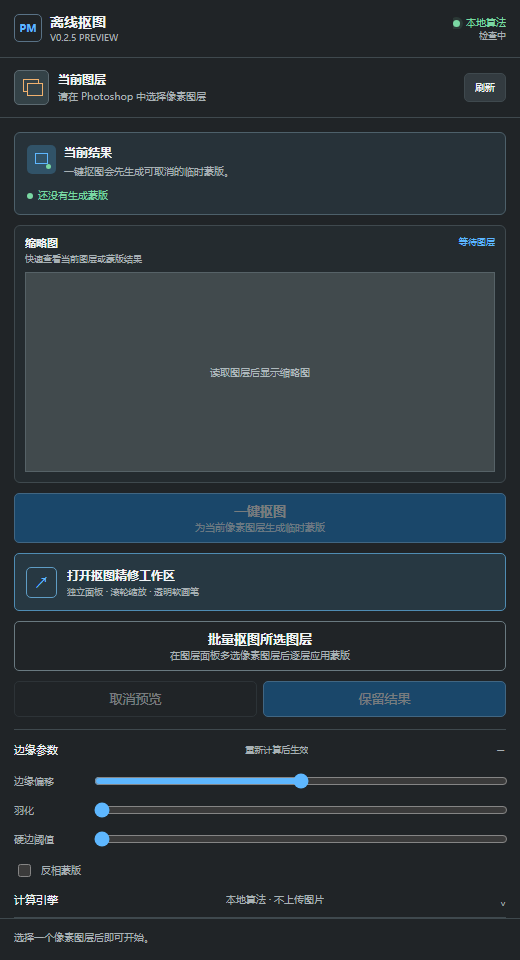
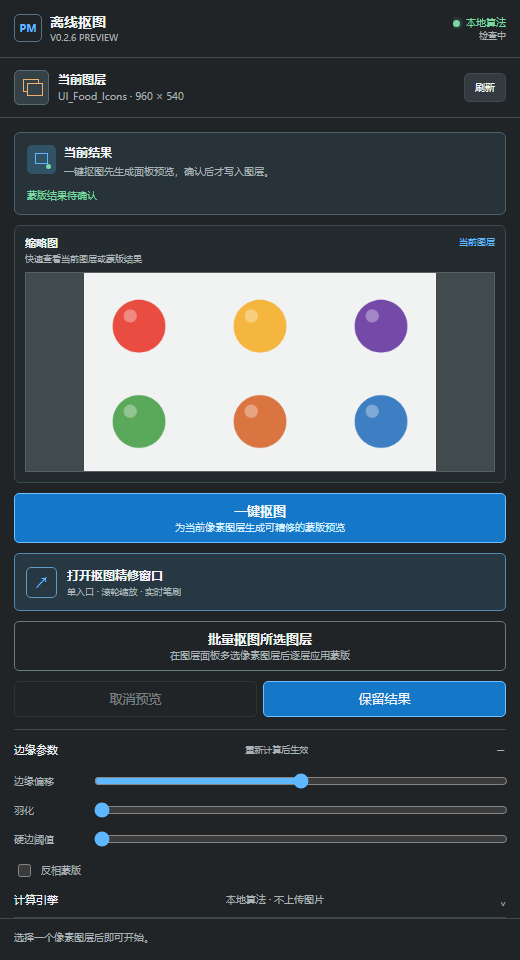
release: publish v0.2.6 preview guidance

diff --git a/docs/USAGE.md b/docs/USAGE.md
@@ -1,19 +1,19 @@
 # 使用说明
 
-![0.2 面板预览](../assets/ui-preview-0.2.png)
+![0.2 面板预览](ui-preview-0.2.png)
 
-![0.2 独立精修面板](../assets/refine-preview-0.2.png)
+![0.2 精修窗口](refine-preview-0.2.png)
 
 ## 基本流程
 
 1. 在 Photoshop 中选择一个像素图层。打开插件或切换图层后会自动读取；“刷新”用于同一图层像素发生变化但选择没有变化的情况。
 2. 主面板缩略图会先显示当前图层；点击“一键抠图”生成初步蒙版后，缩略图切换为蒙版结果。默认使用本地算法，不上传图片。
-3. 点击“打开抠图精修工作区”。Photoshop 会打开第二个原生面板；可以把“抠图精修”从停靠区拖出，作为可缩放的浮动面板。如果按钮无法自动打开，可从 Photoshop 插件菜单直接打开“抠图精修”。Photoshop 会自动为每个原生 UXP 面板生成菜单项，因此菜单里的第二项是备用入口，不能在保留独立可拉伸面板的同时隐藏。
-4. 精修面板默认显示原图和半透明标记。滚轮会围绕鼠标所在位置在 5%–800% 间缩放；按住空格并用左键拖动可平移；“适合窗口”恢复完整画面。
-5. 选择“未知”“保留”或“删除”后，鼠标会变成半透明双圆环画笔，直接按住左键涂抹。将鼠标停在图像上时，按 `[` 或 `]` 可缩小或放大画笔。
+3. 点击“打开抠图精修窗口”。它由“离线抠图”面板内部打开；Photoshop 的插件菜单只有“离线抠图”一个入口。为满足单入口要求，精修区是大尺寸模态工作窗口，不是第二个可停靠面板。
+4. 精修窗口默认显示原图和半透明标记。滚轮会围绕鼠标所在位置在 5%–800% 间缩放；按住空格并用左键拖动可平移；“适合窗口”恢复完整画面。
+5. 选择“未知”“保留”或“删除”后，鼠标会变成半透明双圆环画笔，直接按住左键涂抹。按 `[` 或 `]` 可缩小或放大笔刷直径；工具栏数值和光标旁的 `px` 标签会实时更新。
 6. “柔软度”会为保留/删除画笔生成蓝色 UNKNOWN 过渡外环和对应颜色的确定内核，实际改变 Trimap；未知画笔始终写入完整蓝色圆形。
 7. 涂抹后点击“重新计算”，再切换“原图 + 标记/蒙版结果”检查边缘。边缘参数仍在主面板中修改，修改后必须重新计算。
-8. 点击“应用蒙版”只在最后写回一次 Photoshop；点击“取消”恢复进入精修工作区前的标记和结果。关闭精修面板不会丢弃草稿，重新打开可继续。
+8. 点击“应用蒙版”只在最后写回一次 Photoshop；点击“取消”或关闭精修窗口会恢复进入精修前的标记和结果。
 
 ## 批量抠图
 
@@ -22,15 +22,17 @@
 3. 文字、组、智能对象等非像素图层会跳过；单层失败不会阻止后续图层。处理中可点击“停止批量”，当前层安全完成后停止后续图层。
 4. 普通、尚未创建用户蒙版的像素图层可以直接处理。批量开始后不要切换文档、修改图层多选或改变图层边界；插件检测到这些变化会停止后续写入。
 
-如果自动读取、按钮或精修画布没有状态变化，请确认加载的是 `v0.2.5` 新目录中的 manifest，而不是覆盖后的旧目录。先在 UXP Developer Tool 中 Stop 并移除旧实例，再 Add Plugin/Load 新 manifest。`v0.2.5` 已修复会导致所有按钮失效的 `create method is not defined for plugin` 初始化错误。
+如果菜单仍同时显示“离线抠图”和“抠图精修”，说明 Photoshop 仍加载着旧版。请在 UXP Developer Tool 中 Stop 并移除旧实例，再从 `v0.2.6` 的新解压目录重新 Add Plugin/Load `manifest.json`，不要直接覆盖旧目录。
+
+切换到另一个文档或像素图层后，插件会取消旧的内存草稿并自动读取新图层，不需要每次手动点击“刷新”。同一图层像素内容改变但选择未变时，可以点击“刷新”；即使上一次计算或恢复失败，“刷新”仍作为解除旧状态的兜底入口。
 
 ## 取消与安全边界
 
-- “取消预览”会恢复应用前的原始图层蒙版。
-- 精修面板中的“取消”会恢复进入精修时的内存快照；关闭面板本身不会取消。
+- “取消预览”会丢弃插件中的未应用结果，不修改 Photoshop 图层蒙版。
+- 精修窗口中的“取消”或关闭窗口会恢复进入精修时的内存快照。
 - 计算中的结果可以取消；旧计算完成后不会回写 Photoshop。
 - “取消计算”只终止当前任务，保留 Trimap 和边缘参数。
-- Photoshop 临时预览失败时会使用面板预览；只有蒙版计算本身失败时才禁止应用。
+- 一键抠图和重新计算只更新插件中的缩略图/精修预览；只有“应用蒙版”写入 Photoshop。
 - 应用或读取图层期间，取消入口会暂时锁定，避免异步写入互相覆盖。
 
 ## 一键抠图适用范围

diff --git a/README.md b/README.md
@@ -4,7 +4,7 @@ Photoshop 抠图插件的公开下载仓库。
 
 ![0.2 面板预览](assets/ui-preview-0.2.png)
 
-![0.2 独立精修面板](assets/refine-preview-0.2.png)
+![0.2 抠图精修窗口](assets/refine-preview-0.2.png)
 
 ## 当前下载
 
@@ -13,15 +13,15 @@ Photoshop 抠图插件的公开下载仓库。
 - `ps-offline-mask-*-uxp-preview.zip`：UXP Developer Tool 开发预览包
 - 生产 `.ccx`：待 C++ Hybrid 原生引擎、Windows/macOS 签名和 Photoshop 24.4+ 回归完成后发布
 
-`v0.2.5-preview` 修复了 `v0.2.4` 中会让所有按钮失效的 UXP 生命周期初始化错误，并在“离线抠图”主面板恢复只读缩略图：读取后显示当前图层，计算后显示蒙版结果。点击主面板的“打开抠图精修工作区”即可进入可停靠、浮动和自由拉伸的完整画布。
+`v0.2.6-preview` 把 Photoshop 插件菜单收敛为唯一入口“离线抠图”。主面板保留当前图层/蒙版结果缩略图，并通过“打开抠图精修窗口”按钮打开 `1100×820` 的大尺寸模态工作区，不再注册第二个“抠图精修”菜单项。
 
-Photoshop 会自动把每个原生 UXP 面板列入插件菜单，因此菜单中仍会同时出现“离线抠图”和“抠图精修”。后者是主面板自动打开失败时的备用入口；UXP 没有在保留独立可拉伸面板时隐藏它的官方配置。
+精修画布支持围绕鼠标位置滚轮缩放、空格加左键平移，以及未知/保留/删除三种半透明双圈画笔。`[` / `]` 调整画笔直径，工具栏和光标旁的 `px` 标签实时显示大小；柔软度会真实写入 Trimap 的 UNKNOWN 过渡区域。重新计算会更新插件预览，“应用蒙版”是单图层流程唯一写入 Photoshop 的动作，取消或关闭精修窗口会恢复进入精修时的内存状态。
 
-精修画布支持围绕鼠标位置滚轮缩放、空格加左键平移，以及未知/保留/删除三种半透明双圈画笔；`[` / `]` 调整大小，“柔软度”会真实写入 UNKNOWN 过渡外环和保留/删除确定内核。应用只在最后写回一次，取消会恢复进入精修前的状态，关闭面板不会丢弃草稿。
+插件打开、切换文档或切换单个像素图层时会自动读取。即使切换发生在重算、应用或批处理期间，也会在当前操作安全结束后重查新图层；旧图层缩略图、Trimap、结果和精修会话不会残留。“刷新”保留为同一图层像素变化时的手动兜底。
 
 批量处理仍固定使用本地算法并严格串行。非像素图层会跳过，单层失败会恢复该层原蒙版并继续，文档、图层选择或边界变化会立即停止后续写入。
 
-从旧版本升级时，请在 UXP Developer Tool 中 Stop 并移除旧实例，重新解压当前 Release 包，然后 Add/Load 新目录中的 `manifest.json`。不要覆盖正在加载的旧目录。本版 108 项自动化测试与发布审计已通过；按用户要求，Photoshop 24.4 中的主面板唤起、缩略图、画笔、滚轮和平移由用户安装后真机复测。
+从旧版本升级时，请在 UXP Developer Tool 中 Stop 并移除旧实例，重新解压当前 Release 包，然后 Add/Load 新目录中的 `manifest.json`。不要覆盖正在加载的旧目录；否则旧 manifest 仍会显示两个菜单入口。本版 110 项自动化测试、语法检查、发布审计和两路独立代码复审已通过。按用户要求，本轮没有自动操作 Photoshop；Photoshop 24.4 中的菜单、画笔和应用流程由用户安装后真机复测。
 
 源码、测试和 PRD 位于私有源码仓库，不在本仓库维护。
 

diff --git a/docs/INSTALL.md b/docs/INSTALL.md
@@ -2,7 +2,7 @@
 
 ## 当前版本状态
 
-当前公开下载是 UXP Developer Tool 开发预览包，不是签名后的生产 `.ccx`。它用于验证面板、Trimap、Photoshop 画布临时蒙版预览和本地算法流程。生产 `.ccx` 需要后续接入 C++ Hybrid 原生引擎、完成 Windows/macOS 签名，并在 Photoshop 24.4+ 上验收。
+当前公开下载是 UXP Developer Tool 开发预览包，不是签名后的生产 `.ccx`。它用于验证单入口面板、Trimap 精修窗口、插件内蒙版预览和本地算法流程。生产 `.ccx` 需要后续接入 C++ Hybrid 原生引擎、完成 Windows/macOS 签名，并在 Photoshop 24.4+ 上验收。
 
 发布前在仓库根目录运行 `npm run audit:release`。生产包还必须在包含三平台 Addon 和 `native/release-integrity.json` 的组装目录中，于 macOS 运行 `npm run audit:production`；AI 变体使用 `node scripts/audit-release.js --production --manifest=plugin/manifest.ai.json`。审计会检查 canonical manifest、二进制架构、SHA-256 完整性、macOS 签名及 Gatekeeper/公证状态，失败时不要上传 Release。
 
@@ -13,11 +13,11 @@
 3. 从 GitHub Releases 下载 `ps-offline-mask-*-uxp-preview.zip` 并解压到本地目录。
 4. 打开 UXP Developer Tool，选择 **Add Plugin**，指向解压目录中的 `manifest.json`。
 5. 点击 **Load**，在 Photoshop 的插件菜单中打开“离线抠图”面板。
-6. 主面板会显示当前图层/蒙版结果缩略图。点击“打开抠图精修工作区”进入可拉伸的独立精修面板；只有自动打开失败时才需要从插件菜单单独打开“抠图精修”。
+6. 主面板会显示当前图层/蒙版结果缩略图。点击面板内的“打开抠图精修窗口”进入大尺寸精修工作区。
 
-“离线抠图”主面板范围约为 `320×420` 到 `1600×2400`；“抠图精修”面板范围约为 `480×420` 到 `3000×3000`，推荐浮动尺寸为 `1100×820`。两个面板都由 Photoshop 管理，可以停靠或拖出并调整大小。Photoshop 会自动把每个原生 UXP 面板列入插件菜单，因此菜单中会同时出现“离线抠图”和“抠图精修”；后者是主面板自动打开失败时的备用入口，UXP 没有在保留独立可拉伸面板时隐藏它的官方配置。
+“离线抠图”主面板范围约为 `320×420` 到 `1600×2400`。Photoshop 插件菜单只显示“离线抠图”；精修窗口由主面板按钮打开，默认设计尺寸为 `1100×820`，并限制在当前可用屏幕范围内。单入口与独立可停靠/任意拉伸面板无法同时成立，本版按用户确认优先保留单入口。
 
-从 `v0.2.4` 升级时必须在 UXP Developer Tool 中先 Stop 并移除旧实例，再从新解压目录重新 Add Plugin。`v0.2.5` 修复了旧包的 `create method is not defined for plugin` 初始化错误；不要直接覆盖旧目录后继续使用已加载实例。
+从 `v0.2.5` 或更早版本升级时，必须在 UXP Developer Tool 中先 Stop 并移除旧实例，再从新解压目录重新 Add Plugin。否则旧 manifest 仍会让菜单显示两个入口；不要直接覆盖旧目录后继续使用已加载实例。
 
 开发预览包只处理当前文档中选中的像素图层；单选一个像素图层时会自动读取，手动“刷新”作为同层内容更新的兜底；多选时进入批量模式并处理全部选中像素图层。文字、智能对象、组和矢量图层需要先在 Photoshop 中栅格化。
 

diff --git a/docs/RELEASE-0.2.6.md b/docs/RELEASE-0.2.6.md
@@ -1,0 +1,38 @@
+# v0.2.6-preview
+
+## 本轮修复
+
+- Photoshop 的插件菜单只注册“离线抠图”一个入口；“抠图精修”改为主面板按钮打开的大尺寸模态工作窗口。
+- 保留主面板缩略图：读取后显示当前图层，计算后显示插件内蒙版结果。
+- 精修画布支持鼠标位置滚轮缩放、空格加左键平移，以及未知/保留/删除三种可实际写入 Trimap 的画笔。
+- `[` / `]` 可调节画笔直径；工具栏和半透明双圈光标旁的 `px` 数值实时更新。柔软度会生成真实 UNKNOWN 过渡带。
+- “重新计算”更新精修结果；“应用蒙版”才写入 Photoshop；“取消”或关闭精修窗口恢复进入精修时的内存快照。
+- 打开插件或切换单个像素图层时自动读取。切换发生在重算、应用或批处理期间时，会在当前操作结束后自动重查，不再残留旧图层信息或进入按钮全部失效的状态。
+- 修复精修窗口关闭/重开、面板销毁和异步计算并发时的生命周期竞态。
+
+## 验证
+
+- 自动化测试：`110/110` 通过。
+- JavaScript 语法检查：通过。
+- 开发预览包安全审计：通过。
+- `520×960` 主面板和 `1100×820` 精修窗口静态布局验收：通过。
+- ZIP 与私有源码仓 `plugin/` 的 25 个运行文件逐文件 SHA-256 一致。
+- 两路独立代码复审通过：需求偏差 0，生命周期/状态问题 0。
+- 遵守用户要求，本轮没有由自动化流程操作 Photoshop；安装后请由用户完成 Photoshop 24.4 真实宿主复测。
+
+## 升级与测试
+
+1. 在 UXP Developer Tool 中 Stop 并移除所有旧版 `PS Offline Mask` 实例。
+2. 下载并解压 `ps-offline-mask-0.2.6-uxp-preview.zip` 到新目录，不要覆盖正在加载的旧目录。
+3. Add Plugin 并选择新目录中的 `manifest.json`，随后点击 Load。
+4. 在 Photoshop 的插件菜单中确认 `PS Offline Mask` 下只有“离线抠图”一个入口。
+5. 选择一个像素图层，确认面板自动读取并显示缩略图；点击“一键抠图”后确认缩略图显示蒙版结果。
+6. 从主面板点击“打开抠图精修窗口”，依次测试滚轮缩放、空格拖动、三种画笔、`[` / `]`、柔软度、重新计算、取消和应用蒙版。
+7. 在未应用的精修状态以及重算过程中切换到另一图层，确认旧信息被清除，新图层在操作结束后自动读取，按钮保持可用。
+8. 多选像素图层运行批量抠图，确认逐层生成并应用蒙版。
+
+## 校验值
+
+```text
+3e993e080796decd895f5dba48cd23e7a31a85962f096087a9d05ca8095bd6d5  ps-offline-mask-0.2.6-uxp-preview.zip
+```
